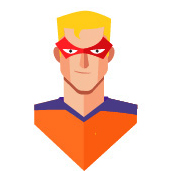
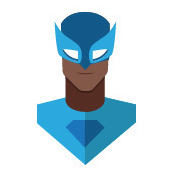
Added assets, catalog item form; still needs functionality tied to back end with actions

diff --git a/src/components/auth/credentials.js b/src/components/auth/credentials.js
@@ -1,6 +1,9 @@
 import React, { PureComponent, Fragment } from 'react';
 import PropTypes from 'prop-types';
 import FormControl from '../shared/FormControl';
+import { avatar1, avatar2, avatar3, avatar4, avatar5 } from '../../assets/constants'; 
+import { avatar6, avatar7, avatar8, avatar9 } from '../../assets/constants';
+import styles from './credentials.css';
 
 class Credentials extends PureComponent {
 
@@ -32,7 +35,7 @@ class Credentials extends PureComponent {
     const { email, password, zip, username, avatar } = this.state;
 
     return (
-      <form onSubmit={this.handleSubmit} className={StyleSheet.credentials}>
+      <form onSubmit={this.handleSubmit} className={styles.credentials}>
         <FormControl label="Email">
           <input name="email" type="email" value={email} onChange={this.handleChange} required></input>
         </FormControl>
@@ -47,9 +50,53 @@ class Credentials extends PureComponent {
               <input name="username" type="text" value={username} onChange={this.handleChange} required></input>
             </FormControl>
 
-            <FormControl label="Avatar">
-              <input name="avatar" type="text" value={avatar} onChange={this.handleChange} required></input>
-            </FormControl>
+            <input onChange={this.handleChange} id="avatar1" type="radio" name="avatar" value={avatar1} className="input-hidden"></input>
+            <label htmlFor="avatar1">
+              <img src={avatar1} className="avatar" alt="Avatar"/>
+            </label>
+
+            <input onChange={this.handleChange} id="avatar2" type="radio" name="avatar" value={avatar2} className="input-hidden"></input>
+            <label htmlFor="avatar2">
+              <img src={avatar2} className="avatar" alt="Avatar"/>
+            </label>
+
+            <input onChange={this.handleChange} id="avatar3" type="radio" name="avatar" value={avatar3} className="input-hidden"></input>
+            <label htmlFor="avatar3">
+              <img src={avatar3} className="avatar" alt="Avatar"/>
+            </label>
+
+            <input onChange={this.handleChange} id="avatar4" type="radio" name="avatar" value={avatar4} className="input-hidden"></input>
+            <label htmlFor="avatar4">
+              <img src={avatar4} className="avatar" alt="Avatar"/>
+            </label>
+
+            <input onChange={this.handleChange} id="avatar5" type="radio" name="avatar" value={avatar5} className="input-hidden"></input>
+            <label htmlFor="avatar5">
+              <img src={avatar5} className="avatar" alt="Avatar"/>
+            </label>
+
+            <input onChange={this.handleChange} id="avatar6" type="radio" name="avatar" value={avatar6} className="input-hidden"></input>
+            <label htmlFor="avatar6">
+              <img src={avatar6} className="avatar" alt="Avatar"/>
+            </label>
+
+            <input onChange={this.handleChange} id="avatar7" type="radio" name="avatar" value={avatar7} className="input-hidden"></input>
+            <label htmlFor="avatar7">
+              <img src={avatar7} className="avatar" alt="Avatar"/>
+            </label>
+
+            <input onChange={this.handleChange} id="avatar8" type="radio" name="avatar" value={avatar8} className="input-hidden"></input>
+            <label htmlFor="avatar8">
+              <img src={avatar8} className="avatar" alt="Avatar"/>
+            </label>
+
+            <input onChange={this.handleChange} id="avatar9" type="radio" name="avatar" value={avatar9} className="input-hidden"></input>
+            <label htmlFor="avatar9">
+              <img src={avatar9} className="avatar" alt="Avatar"/>
+            </label>
+
+            <input name="avatar" type="text" value={avatar} onChange={this.handleChange} required></input>
+          
 
             <FormControl label="Zip Code">
               <input name="zip" type="number" pattern="(\d{5}([\-]\d{4})?)" value={zip} onChange={this.handleChange} required></input>

diff --git a/src/components/dashboard/CatalogItemForm.js b/src/components/dashboard/CatalogItemForm.js
@@ -1,0 +1,71 @@
+import { own, trade, wishlist, good, fine, mint } from '../../assets/constants';
+
+import React, { PureComponent } from 'react';
+import styles from './CatalogItemForm.css';
+import PropTypes from 'prop-types';
+
+export default class CatalogItemForm extends PureComponent {
+
+    state = {
+      condition: '',
+      exchange: ''
+    };
+  
+    static propTypes = {
+      submit: PropTypes.func,
+      onCancel: PropTypes.func,
+    };
+
+    handleSubmit = event => {
+      event.preventDefault();
+      this.props.submit(this.state);
+    };
+
+    handleCancel = event => {
+      event.preventDefault();
+      this.props.onCancel();
+    };
+
+    handleChange = ({ target }) => {
+      this.setState({ [target.name]: target.value });
+    };
+
+    render() {
+      return (
+        <form onSubmit={this.handleSubmit} className={styles.catalogItemForm}>
+          <input onChange={this.handleChange} id="good" type="radio" name="condition" value="Good" className="input-hidden"></input>
+          <label htmlFor="good">
+            <img src={good} className="condition" alt="Condition: Good"/>
+          </label>
+
+          <input onChange={this.handleChange} id="fine" type="radio" name="condition" value="Fine" className="input-hidden"></input>
+          <label htmlFor="fine">
+            <img src={fine} className="condition" alt="Condition: Fine"/>
+          </label>
+
+          <input onChange={this.handleChange} id="mint" type="radio" name="condition" value="Mint" className="input-hidden"></input>
+          <label htmlFor="mint">
+            <img src={mint} className="condition" alt="Condition: Mint"/>
+          </label>
+
+          <input onChange={this.handleChange} id="own" type="radio" name="exchange" value="Own" className="input-hidden"></input>
+          <label htmlFor="own">
+            <img src={own} className="exchange" alt="Exchange Status: Own"/>
+          </label>
+
+          <input onChange={this.handleChange} id="trade" type="radio" name="exchange" value="Trade" className="input-hidden"></input>
+          <label htmlFor="trade">
+            <img src={trade} className="exchange" alt="Exchange Status: Trade"/>
+          </label>
+
+          <input onChange={this.handleChange} id="wishlist" type="radio" name="exchange" value="Wishlist" className="input-hidden"></input>
+          <label htmlFor="wishlist">
+            <img src={wishlist} className="exchange" alt="Exchange Status: Wishlist"/>
+          </label>
+
+          <button>Save</button>
+          <button onClick={this.handleCancel}>Cancel</button>
+        </form>
+      );
+    }
+}

diff --git a/src/components/dashboard/CatalogItem.js b/src/components/dashboard/CatalogItem.js
@@ -1,17 +1,32 @@
 import React, { Component } from 'react';
 import PropTypes from 'prop-types';
 import styles from './CatalogItem.css';
+import CatalogItemForm from './CatalogItemForm';
 
 class CatalogItem extends Component {
 
   static propTypes = {
     catalogItem: PropTypes.object,
+    editCatalog: PropTypes.func,
   };
   
+  state = {
+    editing: false
+  };
+
+  handleEdit = catalog => {
+    const { editCatalog } = this.props;
+    return editCatalog(catalog)
+      .then(() => this.toggleEdit);
+  };
+
+  toggleEdit = () => {
+    this.setState(({ editing }) => ({ editing: !editing }));
+  };
   
   render() { 
     const { catalogItem } = this.props;
-    console.log(catalogItem);
+    const { editing } = this.state;
     
     return (
       <section className={styles.catalogItem}>
@@ -20,6 +35,10 @@ class CatalogItem extends Component {
         <p>Issue: {catalogItem.comic.issueName}</p>
         <p>Cover Date: {catalogItem.comic.coverDate}</p>
         <p>Volume: {catalogItem.comic.volumeName}</p>
+        {editing
+          ? <CatalogItemForm submit={this.handleEdit} onCancel={this.toggleEdit}/>
+          : <button onClick={this.toggleEdit}>Edit</button>
+        }
         <p>Condition: {catalogItem.condition}</p>
         <div dangerouslySetInnerHTML={{ __html: catalogItem.comic.description }}></div>
         Characters:

diff --git a/src/components/dashboard/Dashboard.js b/src/components/dashboard/Dashboard.js
@@ -3,6 +3,7 @@ import PropTypes from 'prop-types';
 import { connect } from 'react-redux';
 import CatalogDisplay from './CatalogDisplay';
 import { getUserCatalog } from './reducers';
+import { getUser } from '../auth/reducers';
 import { loadUserCatalog } from './actions';
 
 class Dashboard extends Component {
@@ -16,11 +17,12 @@ class Dashboard extends Component {
   }
   
   render() { 
-    const { catalog } = this.props;
+    const { catalog, user } = this.props;
     
     return (
       <section>
-        <h3>User Dashboard Component</h3>
+        <h3>{user.username}&apos;s Collection</h3>
+        <img src={user.avatar}/>
         <CatalogDisplay
           catalog={catalog}
         />
@@ -31,6 +33,7 @@ class Dashboard extends Component {
  
 export default connect(
   state => ({
+    user: getUser(state),
     catalog: getUserCatalog(state)
   }),
   { loadUserCatalog }

diff --git a/src/assets/constants.js b/src/assets/constants.js
@@ -1,0 +1,23 @@
+import avatar1 from './avatar1.jpg';
+import avatar2 from './avatar2.jpg';
+import avatar3 from './avatar3.jpg';
+import avatar4 from './avatar4.jpg';
+import avatar5 from './avatar5.jpg';
+import avatar6 from './avatar6.jpg';
+import avatar7 from './avatar7.jpg';
+import avatar8 from './avatar8.jpg';
+import avatar9 from './avatar9.jpg';
+import good from './good.png';
+import fine from './fine.png';
+import mint from './mint.png';
+import own from './own.png';
+import trade from './trade.png';
+import wishlist from './wishlist.png';
+
+/* eslint-disable-next-line */
+module.exports = { 
+  avatar1, avatar2, avatar3, avatar4, avatar5,
+  avatar6, avatar7, avatar8, avatar9,
+  good, fine, mint,
+  own, trade, wishlist
+};

diff --git a/src/components/app/Header.css b/src/components/app/Header.css
@@ -1,13 +1,19 @@
 :local(.header) {
+  @import url('https://fonts.googleapis.com/css?family=Bangers');
+
   display: flex;
   font-family: Helvetica, sans-serif;
   justify-content: center;
   box-shadow: 0 8px 6px -6px black;
 
+  h1 {
+    font-family: 'Bangers', sans-serif;
+  }
+
   nav {
     display: flex;
     justify-content: row;
-    align-items: end;
+ align-items: end;
   }
   
   ul {

diff --git a/src/components/dashboard/CatalogItemForm.css b/src/components/dashboard/CatalogItemForm.css
@@ -1,0 +1,21 @@
+:local(.catalogItemForm) {
+    .input-hidden {
+        position: absolute;
+        left: -9999px;
+    }
+    
+    img {
+        width: 100px;
+        margin: 3px;
+    }
+
+    input {
+      box-sizing: border-box;
+    }
+
+    input[type="radio"]:checked+label {
+        img {
+            border: 1px solid black;
+        } 
+    }
+}

diff --git a/src/components/auth/credentials.css b/src/components/auth/credentials.css
@@ -1,5 +1,9 @@
 :local(.credentials) {
 
+  .avatar {
+    width: 75px;
+  }
+
   button {
     cursor: pointer;
     margin: 8px;
@@ -12,6 +16,11 @@
   button:hover {
       background-color: #088af5; 
       color: white;
+  }
+
+  .input-hidden {
+    position: absolute;
+    left: -9999px;
   }
 
   .toggle {

diff --git a/src/components/comics/ComicResult.js b/src/components/comics/ComicResult.js
@@ -21,11 +21,7 @@ class ComicResult extends PureComponent {
         addComic(data.payload);
       });
   };
-
-  handleWishlist = comicId => {
-    console.log('TO-DO: WRITE FUNCTION');
-  };
-
+  
   render() {
     const { comic } = this.props;
     return (

diff --git a/src/styles/main.css b/src/styles/main.css
@@ -1,3 +1,4 @@
+@import url('https://fonts.googleapis.com/css?family=Bangers');
 // font-family: 'Bangers', sans-serif;
 // font-family: 'Architects Daughter', sans-serif;
 

diff --git a/src/components/dashboard/CatalogItem.css b/src/components/dashboard/CatalogItem.css
@@ -1,5 +1,5 @@
 :local(.catalogItem) {
     img {
-        width: 200px;
+        width: 280px;
     }
 }
